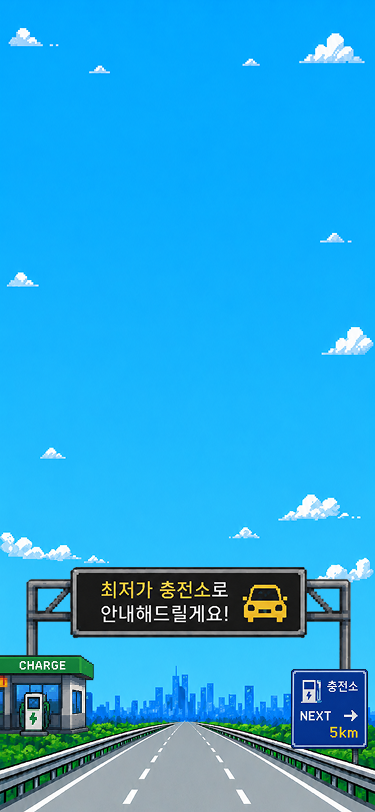
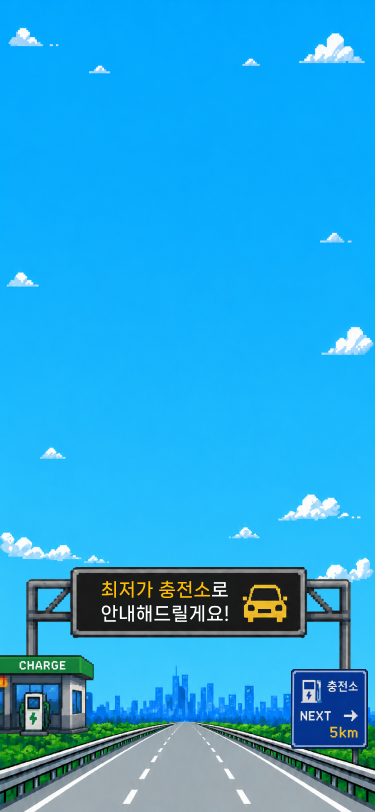
Replace hero background with supplied image

diff --git a/app.preview-5281.js b/app.preview-5281.js
@@ -135,7 +135,7 @@ const els = {
 };
 function normalizeWaterKey(value){return String(value||"").replace(/[\s()]/g,"").replace(/휴게소/g,"").replace(/포도/g,"").replace(/방향/g,"");}function findWaterReststopDetail(station){if(!/워터|water/i.test(String(station?.operator_name||station?.operator||station?.displayOperatorCandidate?.operator_name||"")))return null;const stationName=normalizeWaterKey(station?.service_area_name);const direction=normalizeWaterKey(station?.direction);return WATER_RESTSTOP_DATA.find(row=>{const rest=normalizeWaterKey(row.restArea);const full=normalizeWaterKey(row.stationName);const rowDir=normalizeWaterKey(row.direction);const nameMatches=rest.includes(stationName)||stationName.includes(rest)||full.includes(stationName)||stationName.includes(full);const dirMatches=!direction||!rowDir||rowDir.includes(direction)||full.includes(direction);return nameMatches&&dirMatches;})||null;}function maxWaterSpeed(detail){const values=String(detail?.speed||"").split(/[,/ ]+/).map(v=>Number(String(v).replace(/[^0-9.]/g,""))).filter(v=>Number.isFinite(v)&&v>0);return values.length?Math.max(...values):0;}function applyWaterReststopData(){state.stations=state.stations.map(station=>{const detail=findWaterReststopDetail(station);if(!detail)return station;const speed=maxWaterSpeed(detail);const available=Number(String(detail.available||"").replace(/[^0-9.]/g,""));return {...station,waterReststopDetail:detail,public_operator_name:"워터",public_available_charger_count:Number.isFinite(available)&&available>0?available:station.public_available_charger_count,public_total_charger_count:Number.isFinite(available)&&available>0?available:station.public_total_charger_count,total_charger_count:Number.isFinite(available)&&available>0?available:station.total_charger_count,charger_count:Number.isFinite(available)&&available>0?available:station.charger_count,public_max_output_kw:speed||station.public_max_output_kw,public_output_kw:speed||station.public_output_kw};});}
 function boot() {
-  if (els.heroBg) els.heroBg.src = "./assets/new/hero/hero-bg.png?v=20260626-1728";
+  if (els.heroBg) els.heroBg.src = "./assets/new/hero/hero-bg.png?v=20261012-hero-bg";
   if (els.startFlag) els.startFlag.src = "./assets/new/icon-flag-blue.png?v=20260626-1715";
   state.stations = (window.PROTOTYPE_DATA?.stations || []).map((station) => ({
     ...station,
@@ -1871,3 +1871,4 @@ window.__debugOperatorCandidates = function () {
     }))
   }));
 };
+

diff --git a/index.html b/index.html
@@ -158,10 +158,11 @@
     <script src="./mobile-layout.js?v=mobile-touch-bg-20261006"></script>
 <script src="./data.generated-20260930.js?v=operator-ranking-20261007"></script>
     <script src="./map-city-pins.js?v=all-27-20261006"></script>
-    <script src="./app.preview-5281.js?v=name-policy-20261007"></script>
+    <script src="./app.preview-5281.js?v=hero-bg-20261012"></script>
     <script src="./route-share.js?v=share-toast-1s-20261001"></script>
   </body>
 </html>
+
 
 
 
